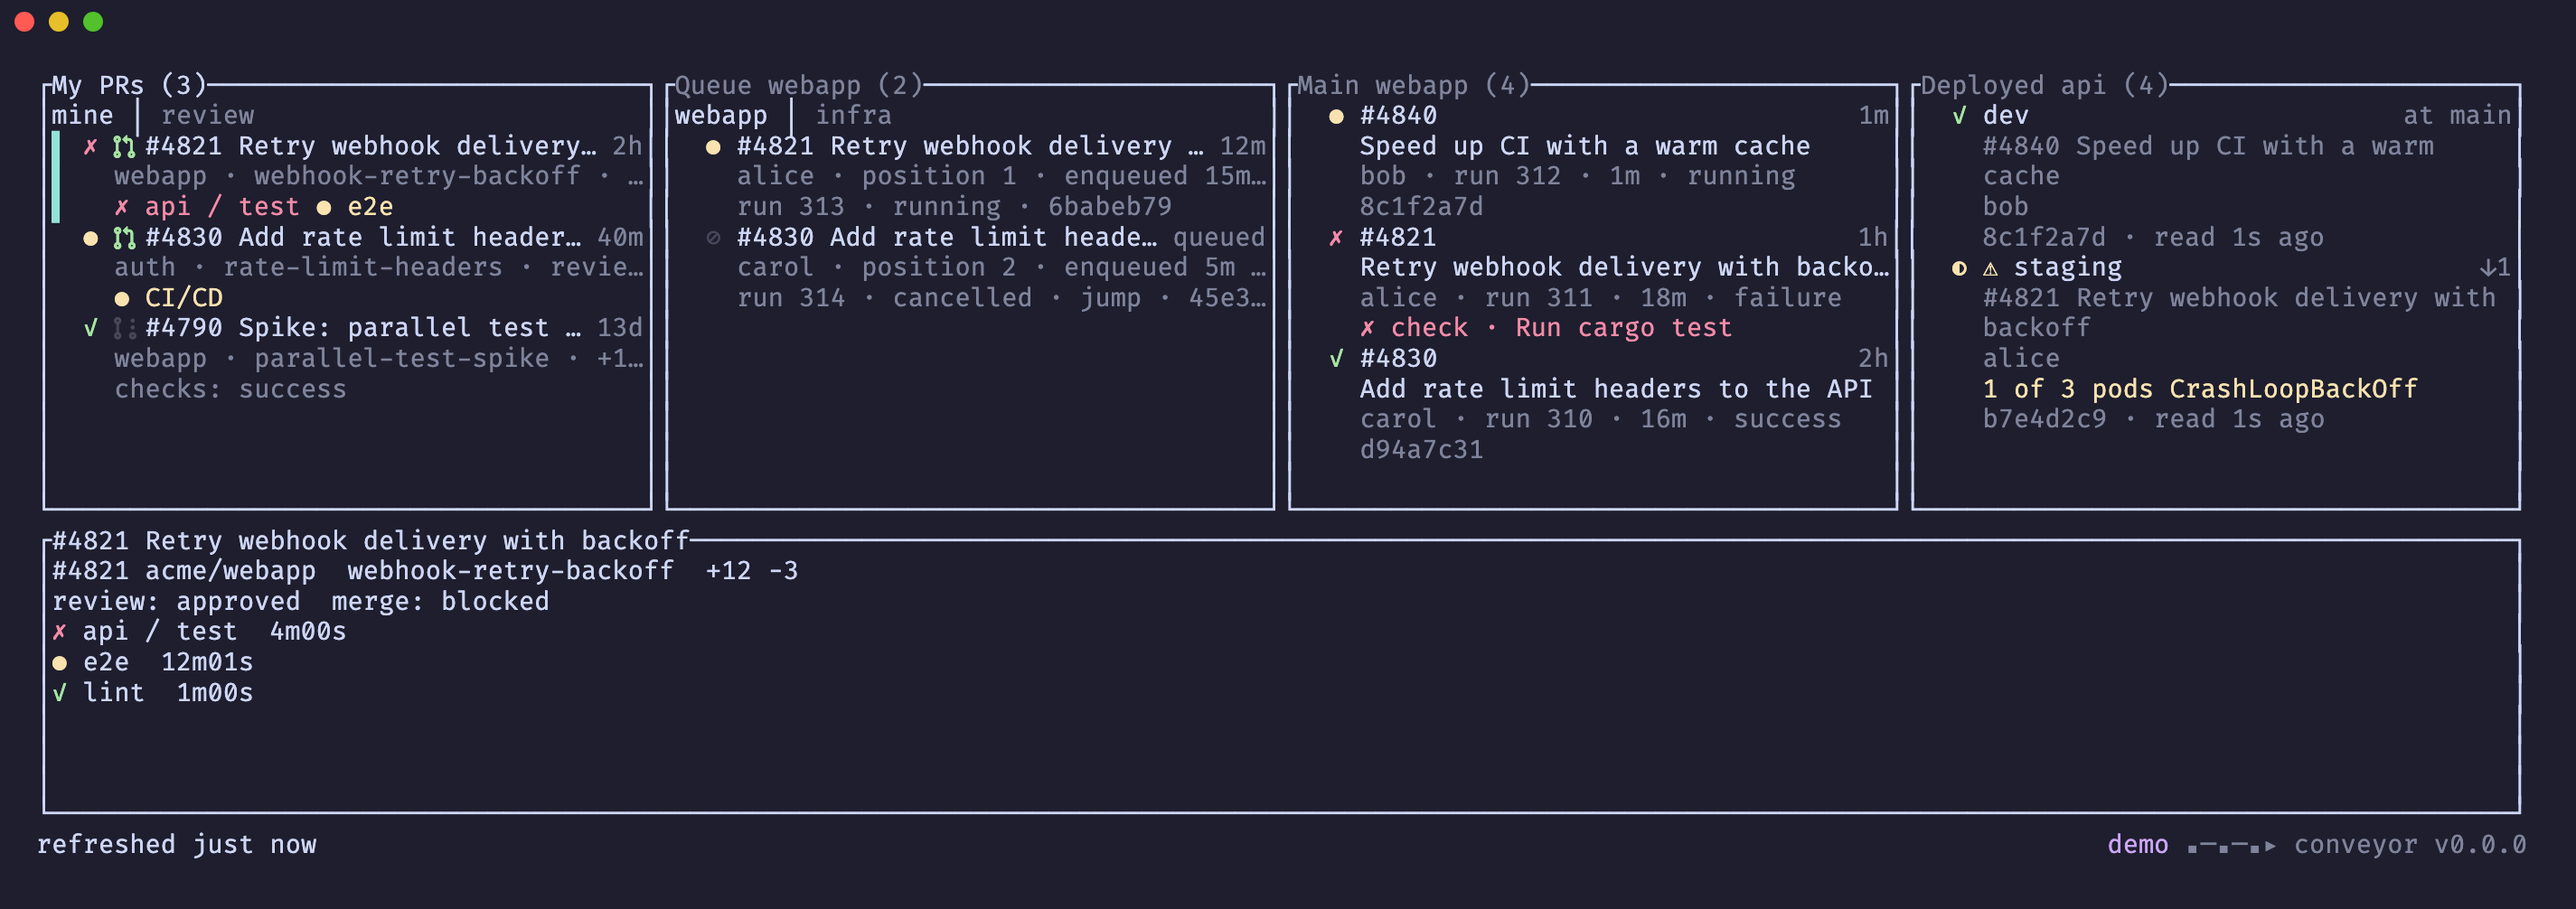
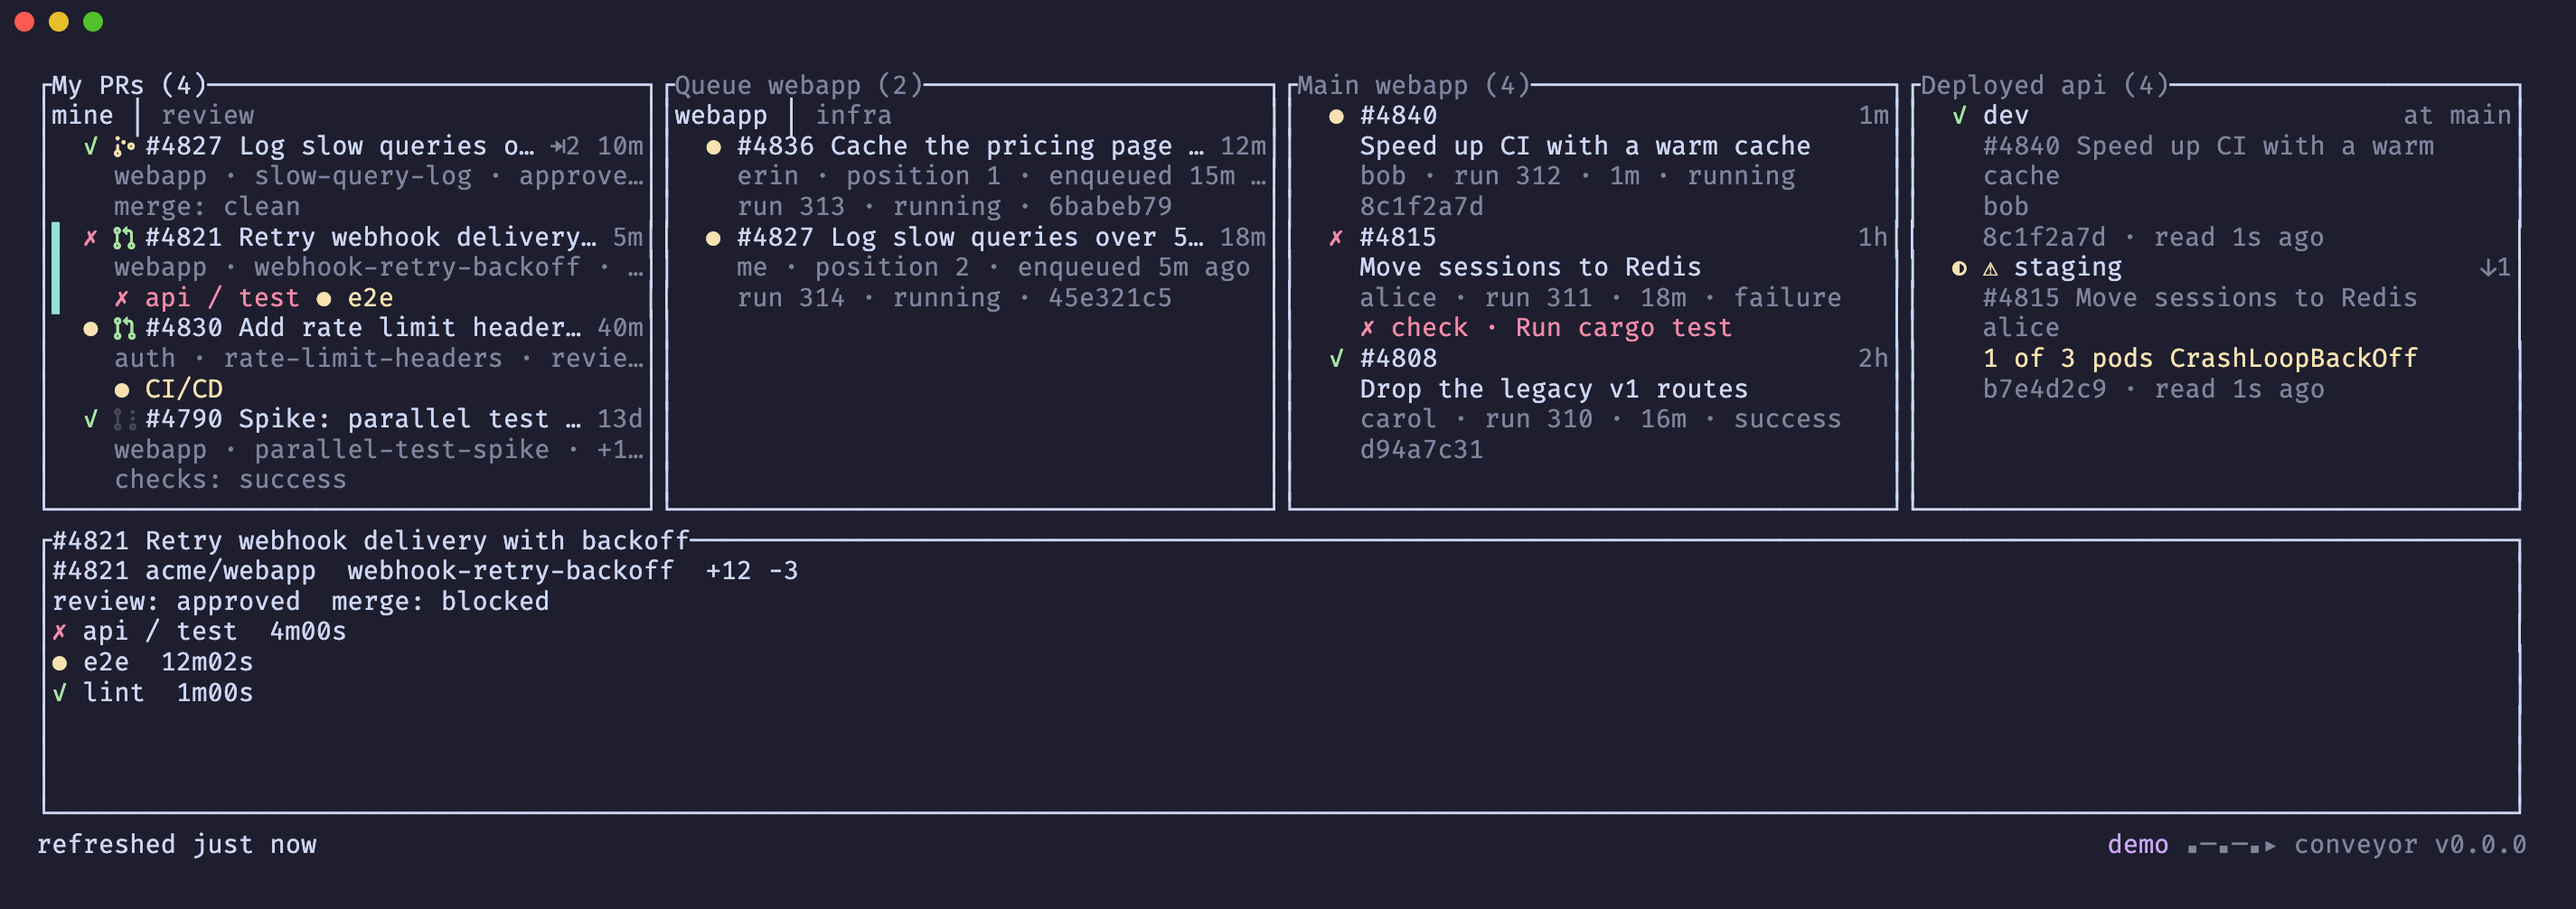
The demo tells one story, offers rerun, fills the review tab and keeps its marker under the help pane

diff --git a/tests/demo.rs b/tests/demo.rs
@@ -4,7 +4,9 @@ use conveyor::config::{Config, MergeMethod, Prs, Repo, Ui, UpdateMethod};
 use conveyor::model::deployed::Health;
 use conveyor::model::prs::StatusChange;
 use conveyor::sources::demo::{self, Demo};
-use conveyor::sources::fetch::{BuildsSource, DeploySource, fetch_jobs, fetch_log, fetch_queue};
+use conveyor::sources::fetch::{
+    BuildsSource, DeploySource, fetch_jobs, fetch_log, fetch_prs, fetch_queue,
+};
 use conveyor::sources::github::Github;
 
 #[test]
@@ -53,6 +55,18 @@ fn the_demo_has_its_own_my_prs_tabs() {
 }
 
 #[test]
+fn the_demo_review_tab_holds_other_pull_requests_than_mine() {
+    let config = demo::config(Config::default());
+
+    let review = fetch_prs(&Demo, &config, 1).unwrap();
+
+    assert_eq!(review.len(), 2);
+    assert_eq!(review[0].number, 4844);
+    assert_eq!(review[1].number, 212);
+    assert_eq!(review[1].repo, "acme/infra");
+}
+
+#[test]
 fn the_demo_keeps_the_users_ui_settings() {
     let user = Config {
         ui: Ui {
@@ -74,9 +88,53 @@ fn the_demo_queue_of_acme_webapp_holds_two_pull_requests_with_their_runs() {
     let queue = fetch_queue(&Demo, &config.repo[0]).unwrap();
 
     assert_eq!(queue.entries.len(), 2);
-    assert_eq!(queue.entries[0].number, 4821);
+    assert_eq!(queue.entries[0].number, 4836);
+    assert_eq!(queue.entries[0].author, "erin");
     assert_eq!(queue.entries[0].run.as_ref().unwrap().id, 313);
+    assert_eq!(queue.entries[1].number, 4827);
+    assert_eq!(queue.entries[1].author, "me");
     assert_eq!(queue.entries[1].run.as_ref().unwrap().id, 314);
+}
+
+#[test]
+fn my_demo_pull_request_in_the_queue_is_queued_in_my_prs_at_the_same_position() {
+    let config = demo::config(Config::default());
+    let queue = fetch_queue(&Demo, &config.repo[0]).unwrap();
+
+    let mine = fetch_prs(&Demo, &config, 0).unwrap();
+
+    let queued = mine.iter().find(|pr| pr.number == 4827).unwrap();
+    assert_eq!(queued.queue_position, Some(queue.entries[1].position));
+}
+
+#[test]
+fn only_my_queued_demo_pull_request_is_queued_in_my_prs() {
+    let config = demo::config(Config::default());
+
+    let mine = fetch_prs(&Demo, &config, 0).unwrap();
+
+    let queued: Vec<u64> = mine
+        .iter()
+        .filter(|pr| pr.queue_position.is_some())
+        .map(|pr| pr.number)
+        .collect();
+    assert_eq!(queued, vec![4827]);
+}
+
+#[test]
+fn no_open_demo_pull_request_of_mine_was_already_built_on_main() {
+    let config = demo::config(Config::default());
+    let mine = fetch_prs(&Demo, &config, 0).unwrap();
+    let mut source = BuildsSource::new(config.repo[0].clone());
+
+    let builds = source.fetch(&Demo, SystemTime::now()).unwrap();
+
+    let built_and_open: Vec<u64> = builds
+        .iter()
+        .filter_map(|build| build.pull.as_ref().map(|pull| pull.number))
+        .filter(|number| mine.iter().any(|pr| pr.number == *number))
+        .collect();
+    assert!(built_and_open.is_empty(), "{built_and_open:?}");
 }
 
 #[test]
@@ -99,7 +157,9 @@ fn the_demo_main_builds_are_four_runs_newest_first_with_their_pull_requests() {
     assert_eq!(builds[0].run_number, 312);
     assert_eq!(builds[0].pull.as_ref().unwrap().number, 4840);
     assert_eq!(builds[0].pull.as_ref().unwrap().author, "bob");
-    assert_eq!(builds[3].pull.as_ref().unwrap().number, 4790);
+    assert_eq!(builds[1].pull.as_ref().unwrap().number, 4815);
+    assert_eq!(builds[1].pull.as_ref().unwrap().author, "alice");
+    assert_eq!(builds[3].pull.as_ref().unwrap().number, 4799);
 }
 
 #[test]
@@ -156,7 +216,7 @@ fn the_demo_prod_runs_an_older_build() {
     assert_eq!(deployed.rows[2].env, "prod");
     assert_eq!(
         deployed.rows[2].pull.as_ref().map(|pull| pull.number),
-        Some(4790)
+        Some(4799)
     );
 }
 

diff --git a/src/ui/footer.rs b/src/ui/footer.rs
@@ -26,7 +26,7 @@ pub(crate) fn footer_text(app: &App) -> String {
     }
 }
 
-const DEMO: &str = "demo ";
+const DEMO: &str = "demo";
 
 pub fn logo() -> String {
     format!(
@@ -41,21 +41,35 @@ pub(crate) fn draw_footer(frame: &mut Frame, app: &App, area: Rect) {
     } else {
         footer_text(app)
     };
-    let marker = if app.demo { DEMO } else { "" };
-    let logo = logo();
-    let width = (marker.chars().count() + logo.chars().count()) as u16 + 1;
-    let [left, right] =
-        Layout::horizontal([Constraint::Fill(1), Constraint::Length(width)]).areas(area);
+    let left = draw_right(frame, app, Some(Span::styled(logo(), dim())), area);
     frame.render_widget(Paragraph::new(text), left);
-    frame.render_widget(
-        Paragraph::new(Line::from(vec![
-            Span::styled(
-                marker,
-                Style::new().fg(Color::Magenta).add_modifier(Modifier::BOLD),
-            ),
-            Span::styled(logo, dim()),
-        ]))
-        .right_aligned(),
-        right,
-    );
+}
+
+pub(crate) fn draw_overlay_footer(frame: &mut Frame, app: &App, hint: &str, area: Rect) {
+    let text = app.notice.as_deref().unwrap_or(hint);
+    let left = draw_right(frame, app, None, area);
+    frame.render_widget(Paragraph::new(text.to_string()), left);
+}
+
+fn draw_right(frame: &mut Frame, app: &App, logo: Option<Span<'static>>, area: Rect) -> Rect {
+    let mut spans = Vec::new();
+    if app.demo {
+        spans.push(Span::styled(
+            DEMO,
+            Style::new().fg(Color::Magenta).add_modifier(Modifier::BOLD),
+        ));
+    }
+    if let Some(logo) = logo {
+        if app.demo {
+            spans.push(Span::raw(" "));
+        }
+        spans.push(logo);
+    }
+    let line = Line::from(spans);
+    let width = line.width() as u16;
+    let gap = u16::from(width > 0);
+    let [left, right] =
+        Layout::horizontal([Constraint::Fill(1), Constraint::Length(width + gap)]).areas(area);
+    frame.render_widget(Paragraph::new(line).right_aligned(), right);
+    left
 }

diff --git a/src/sources/demo.rs b/src/sources/demo.rs
@@ -11,6 +11,7 @@ use crate::sources::github::{Github, Variable};
 use crate::sources::kube::Kube;
 
 const PRS: &str = include_str!("demo/prs.json");
+const REVIEW: &str = include_str!("demo/review.json");
 const QUEUE: &str = include_str!("demo/queue.json");
 const RUNS: &str = include_str!("demo/runs.json");
 const MERGE_GROUP_RUNS: &str = include_str!("demo/merge-group-runs.json");
@@ -71,13 +72,19 @@ fn aged(value: &mut Value, now: SystemTime) {
 fn jobs(run: &str) -> String {
     let (status, conclusion, completed) = match run {
         "1" | "311" => ("completed", "\"failure\"", "\"ago:1181\""),
-        "2" | "312" | "313" => ("in_progress", "null", "null"),
+        "2" | "4" | "312" | "313" | "314" => ("in_progress", "null", "null"),
         _ => ("completed", "\"success\"", "\"ago:1181\""),
     };
     JOBS.replace("STATUS", status)
         .replace("CONCLUSION", conclusion)
         .replace("COMPLETED", completed)
         .replace("RUN", run)
+}
+
+fn asks(vars: &[(&str, Variable)], term: &str) -> bool {
+    vars.iter().any(|(name, value)| {
+        *name == "q" && matches!(value, Variable::Text(query) if query.contains(term))
+    })
 }
 
 fn nothing_changed() -> Failure {
@@ -91,6 +98,7 @@ fn no_fixture(what: &str) -> Failure {
 impl Github for Demo {
     fn graphql(&self, query: &str, vars: &[(&str, Variable)]) -> Result<Value, Failure> {
         match query {
+            PRS_QUERY if asks(vars, "review-requested") => self.answer(REVIEW),
             PRS_QUERY => self.answer(PRS),
             QUEUE_QUERY if vars.iter().any(|(_, v)| *v == Variable::from("webapp")) => {
                 self.answer(QUEUE)

diff --git a/tests/e2e/demo.rs b/tests/e2e/demo.rs
@@ -43,6 +43,36 @@ fn the_demo_says_so_in_the_footer() {
 
 #[test]
 #[ignore]
+fn the_demo_says_so_under_the_help_pane() {
+    let home = tempfile::tempdir().unwrap();
+    let server = Server::sized("demo-help", "30");
+    demo(&server, home.path());
+    server.wait_for_screen("#4821 Retry webhook");
+
+    server.send_keys(&["?"]);
+
+    let screen = server.wait_for_screen("any key returns");
+    assert!(screen.contains("demo"), "{screen}");
+}
+
+#[test]
+#[ignore]
+fn rerunning_the_failed_checks_of_a_demo_pull_request_changes_nothing() {
+    let home = tempfile::tempdir().unwrap();
+    let server = Server::sized("demo-rerun", "30");
+    demo(&server, home.path());
+    server.wait_for_screen("#4821 Retry webhook");
+    server.send_keys(&["j"]);
+
+    server.send_keys(&["S"]);
+    server.wait_for_screen("Manage #4821");
+    server.send_keys(&["f"]);
+
+    server.wait_for_screen("demo: nothing was changed");
+}
+
+#[test]
+#[ignore]
 fn opening_a_pull_request_in_the_demo_opens_nothing() {
     let home = tempfile::tempdir().unwrap();
     let server = Server::sized("demo-open", "30");

diff --git a/src/ui/mod.rs b/src/ui/mod.rs
@@ -20,17 +20,12 @@ use crate::ui::changelog::draw_changelog;
 use crate::ui::columns::{column_title, draw_column};
 use crate::ui::details::draw_details;
 use crate::ui::dialog::{draw_confirm, draw_manage};
-use crate::ui::footer::draw_footer;
+use crate::ui::footer::{draw_footer, draw_overlay_footer};
 use crate::ui::help::draw_help;
 use crate::ui::style::dim;
 
 pub use crate::ui::footer::logo;
 pub use crate::ui::help::KEYS;
-
-fn draw_overlay_footer(frame: &mut Frame, app: &App, hint: &str, area: Rect) {
-    let text = app.notice.as_deref().unwrap_or(hint);
-    frame.render_widget(Paragraph::new(text.to_string()), area);
-}
 
 pub fn draw(frame: &mut Frame, app: &mut App) {
     let [body, footer] =

diff --git a/src/sources/AGENTS.md b/src/sources/AGENTS.md
@@ -172,11 +172,17 @@ How GitHub (through `gh`) and the clusters (through `kubectl`) are reached and w
 - **`Demo` is both `Github` and `Kube`, and reaches nothing.** It answers from JSON under
   `src/sources/demo/` (`include_str!`), which `scripts/screenshots.sh` also draws. A
   string `ago:<secs>` becomes the UTC time that many seconds before the call, so ages stay alive
-  across refreshes. `graphql` matches `PRS_QUERY` and `QUEUE_QUERY` (the queue only for
+  across refreshes. `graphql` matches `PRS_QUERY` (`review.json` when `q` holds
+  `review-requested`, else `prs.json`) and `QUEUE_QUERY` (the queue only for
   `name = "webapp"`, an empty queue for any other repository) and answers any other query with
   a `repository` holding no commits, so `Pulls::prefetch` falls through to REST
   `commits/{sha}/pulls`, which `pulls.json` answers by sha. `rest` routes by path segments;
-  jobs exist for any run id, failed for 1 and 311, running for 2, 312 and 313.
+  jobs exist for any run id, failed for 1 and 311, running for 2, 4, 312, 313 and 314.
+- **The fixture tells one story.** My PRs are `me`'s and still open, so none of them is a
+  Main build; the one queued (`#4827`) sits at the same position in `queue.json`, and each
+  merge-group run's `pr-<N>-` branch names its entry. The failing check of `#4821` carries a
+  finished failing suite with a run id, so `S` offers `f`. `tests/demo.rs` holds these
+  agreements; a fixture change that breaks one fails there.
 - **`Kube` answers per environment name** from `deployments.json` and `pods.json`; any other
   environment (`uat`) fails with `ERROR: Active profile expired.`, so the demo shows an error row.
 - **Every write and the checkout fail with `demo: nothing was changed`**, which marks the card

diff --git a/src/ui/AGENTS.md b/src/ui/AGENTS.md
@@ -156,8 +156,9 @@ What is drawn: cards, glyphs and icons, dialogs, the details, help and changelog
   `refreshed just now` for 3 s, then `refreshed at HH:MM:SS` local time
   (`utc_offset_secs` from `chrono::Local` in `main`, 0 in tests). The bottom right holds the
   static `ui::logo()` with the crate version; nothing there changes between ticks. Under
-  `--demo` (`App::demo`) a bold magenta `demo` sits in front of it, always: magenta is used
-  nowhere else, so it never reads as a status.
+  `--demo` (`App::demo`) a bold magenta `demo` sits in front of it, always, and alone at the
+  right of the help and changelog footers: magenta is used nowhere else, so it never reads as
+  a status.
 - How the details pane scrolls (`draw_details` owns the clamp), the log pane and zoom: see `src/app/AGENTS.md`.
 - What the `S` popup offers and when an action asks `y`: see `src/app/AGENTS.md`.
 - The keymap behind `KEYS`: see `src/app/AGENTS.md`.

diff --git a/PLAN.md b/PLAN.md
@@ -812,7 +812,11 @@ every line of the selected card; the footer logo becomes `▪─▪─▪▸`.
   expired-session text the shim printed; the `acme/infra` queue answers empty; any GraphQL
   other than My PRs and the queue answers a repository with no commits, so pull requests come
   through the REST route by sha; a `#N` OSC 8 link clicked in the terminal still opens GitHub's
-  404, out of conveyor's hands. Fragment `kind: feat`.
+  404, out of conveyor's hands. Review round 1: the marker also shows under the help and
+  changelog panes; the `review` tab answers its own two pull requests; the fixture tells one
+  story (My PRs are open and mine, one of them queued at the queue's position 2, Main builds
+  and Deployed come from other people's merged pull requests); `#4821`'s failing check has a
+  finished suite, so rerun is offered. Fragment `kind: feat`.
 
 ## Deferred / backlog (discuss at retros)
 

diff --git a/plans/phase-49-demo.md b/plans/phase-49-demo.md
@@ -54,6 +54,8 @@ lives in `scripts/screenshots.sh` as shell-written JSON behind `gh` and `kubectl
 | open in browser (`p`, `b`, `o`-less keys) | nothing spawned; `Opener::open` errs | footer `demo: acme/* is made up, so nothing was opened` |
 | `#N` OSC 8 link clicked in the terminal | the terminal opens the `acme/*` URL itself | GitHub's 404; out of conveyor's hands |
 | copy (`y`/`Y`) | copies as usual | as usual |
+| `review` tab | its own two pull requests, by other authors | two cards, none of them mine |
+| help or changelog pane open | the footer keeps the marker | `demo` at the bottom right |
 | a sha with no pull request | REST `[]`, then the `(#N)` route answers nothing | the row without a pull request, as today |
 | `uat` environment | `Kube` errs like an expired session | `✗` row with the message |
 | config file missing | default config, then the demo tables | demo |
